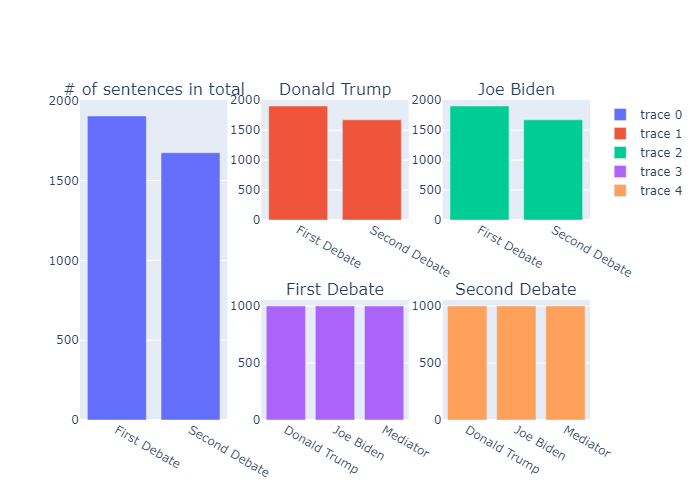
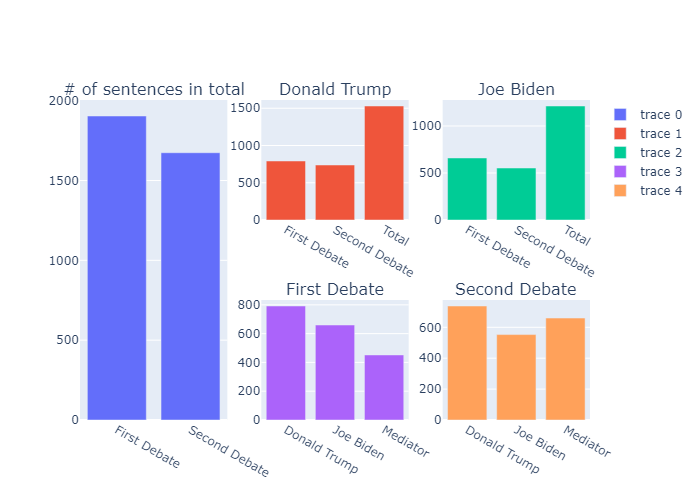
Sentence bars done

diff --git a/PresDebate1.py b/PresDebate1.py
@@ -163,6 +163,22 @@ def main():
     print(totalsents)
     print(totalsents2)
 
+    bidencount = sentencenum.at[2, 'sentences'] + sentencenum2.at[1, 'sentences']
+    trumpcount = sentencenum.at[1, 'sentences'] + sentencenum2.at[0, 'sentences']
+
+    trumppercentage1 = int(sentencenum.at[1, 'sentences'] / totalsents * 100)
+    bidenpercentage1 = int(sentencenum.at[2, 'sentences'] / totalsents * 100)
+    mediatorpercentage1 = int(sentencenum.at[0, 'sentences'] / totalsents * 100)
+
+    trumppercentage2 = int(sentencenum2.at[0, 'sentences'] / totalsents * 100)
+    bidenpercentage2 = int(sentencenum2.at[1, 'sentences'] / totalsents * 100)
+    mediatorpercentage2 = int(sentencenum.at[2, 'sentences'] / totalsents * 100)
+
+    print(trumppercentage2)
+    print(bidenpercentage2)
+    print(mediatorpercentage2)
+
+
     fig = go.Figure(
         data=[go.Bar(x=['First Debate', 'Second Debate'], y=[totalsents, totalsents2])],
         layout=go.Layout(
@@ -183,29 +199,35 @@ def main():
                      text =[totalsents, totalsents2]),
                      row=1, col=1)
 
-    fig.add_trace(go.Bar(x=['First Debate', 'Second Debate'],
-                     y=[totalsents, totalsents2],
-                     text =[totalsents, totalsents2]),
+    #Donald Trump sentence counts for both debates
+    fig.add_trace(go.Bar(x=['First Debate', 'Second Debate', 'Total'],
+                     y=[sentencenum.at[1, 'sentences'], sentencenum2.at[0, 'sentences'], trumpcount],
+                     text =[sentencenum.at[1, 'sentences'], sentencenum2.at[0, 'sentences'], trumpcount]),
                      row=1, col=2)
 
-    fig.add_trace(go.Bar(x=['First Debate', 'Second Debate'],
-                     y=[totalsents, totalsents2],
-                     text =[totalsents, totalsents2]),
+    #Joe Biden sentence counts for both debates
+    fig.add_trace(go.Bar(x=['First Debate', 'Second Debate', 'Total'],
+                     y=[sentencenum.at[2, 'sentences'], sentencenum2.at[1, 'sentences'], bidencount],
+                     text =[sentencenum.at[2, 'sentences'], sentencenum2.at[1, 'sentences'], bidencount]),
                      row=1, col=3)
 
+    #Debate 1 sentence % for each speaker
     fig.add_trace(go.Bar(x=['Donald Trump', 'Joe Biden', 'Mediator'],
-                     y=[1000, 1000, 1000],
-                     text =[1000, 1000, 1000]),
+                     y=[sentencenum.at[1, 'sentences'], sentencenum.at[2, 'sentences'], sentencenum.at[0, 'sentences']],
+                     text =[str(trumppercentage1)+'%', str(bidenpercentage1)+'%', str(mediatorpercentage1)+'%']),
                      row=2, col=2)
 
+    #Debate 2 sentence % for each speaker
     fig.add_trace(go.Bar(x=['Donald Trump', 'Joe Biden', 'Mediator'],
-                     y=[1000, 1000, 1000],
-                     text =[1000, 1000, 1000]),
+                     y=[sentencenum2.at[0, 'sentences'], sentencenum2.at[1, 'sentences'], sentencenum.at[2, 'sentences']],
+                     text =[str(trumppercentage2)+'%', str(bidenpercentage2)+'%', str(mediatorpercentage2)+'%']),
                      row=2, col=3)
 
     imgname = 'SentenceAnalysis.png'
     fig.write_image('img/' + imgname)
-
+    fig.update_traces(textposition='outside', textfont_size=8)
+    fig.update_layout(showlegend=False, title_text="Sentence Analysis")
+    fig.update_yaxes(title_text='count')
     fig.show()
 
 # sentence = '''The platform provides universal access to the world's best education, partnering with top universities and organizations to offer courses online.'''
